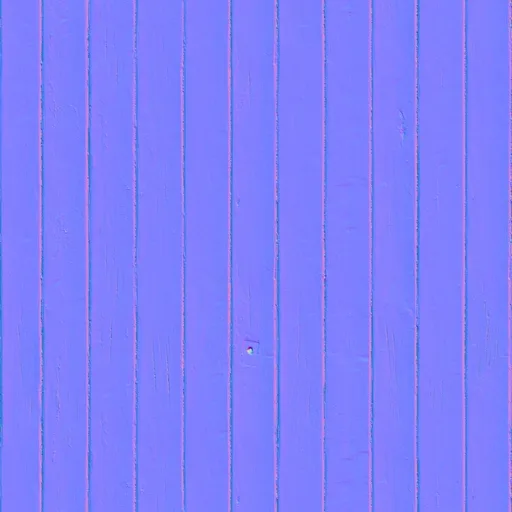
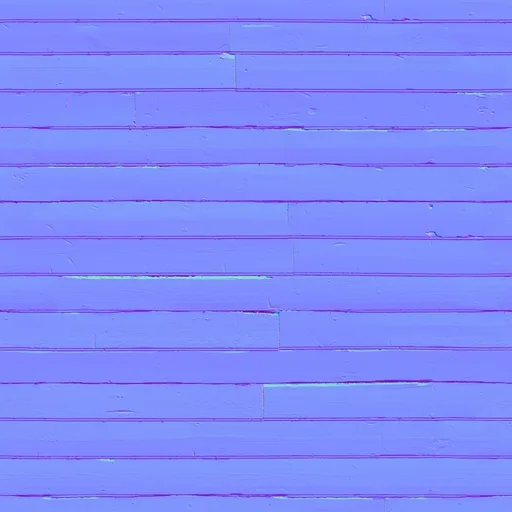
Voss house walls: CC0 Poly Haven Weathered Plank Siding (clear level boards about 17 cm) in place of the blotchy peeling timber; SOURCES updated

Changed region(s): [[0.0, 0.0, 1.0, 1.0]]

diff --git a/src3/look/surfaces.js b/src3/look/surfaces.js
@@ -26,7 +26,7 @@ export const TEXTURES = [
   // things carry their own colour (peeling paint, rust), so full chroma: the
   // pieces use colours near each texture's mean.
   { name: 'stonewall', strength: 1.0, chroma: 0.8, normal: true },
-  { name: 'peeling', strength: 0.85, chroma: 0.55, normal: true },
+  { name: 'peeling', strength: 1.0, chroma: 0.4, normal: true }, // weathered lap siding (round 6)
   { name: 'greyplanks', strength: 1.0, chroma: 0.6, normal: true },
   { name: 'charred', strength: 1.0, chroma: 1.0, normal: true },
   { name: 'rustheavy', strength: 1.0, chroma: 1.0, normal: true },
@@ -56,7 +56,7 @@ export const LAYERS = [
   { name: 'rusty paint', tex: T.rust, scale: [3, 3], normal: 0 },
   { name: 'logs', tex: T.bark, scale: [1.6, 1.2], swap: true, normal: 1 },
   { name: 'stone wall', tex: T.stonewall, scale: [2.6, 2.6], normal: 1 },
-  { name: 'peeling boards', tex: T.peeling, scale: [3, 3], swap: true, normal: 1 },
+  { name: 'peeling boards', tex: T.peeling, scale: [2.4, 2.4], normal: 1 }, // boards about 17 cm, already level
   { name: 'grey boards', tex: T.greyplanks, scale: [2.2, 2.2], swap: true, normal: 1 },
   { name: 'charred', tex: T.charred, scale: [1.6, 1.6], normal: 1 },
   { name: 'heavy rust', tex: T.rustheavy, scale: [1.4, 1.4], normal: 0.6 },

diff --git a/public/look/SOURCES.md b/public/look/SOURCES.md
@@ -72,7 +72,7 @@ flat along each face like the rest. Fetched by `tools/look/fetch.mjs <cache> ph`
 | Name | Used on | Source | License |
 |---|---|---|---|
 | stonewall | mill walls, chimney and rubble, scorched tops, the halt's platform | Poly Haven, Old Stone Wall: https://polyhaven.com/a/old_stone_wall | CC0 |
-| peeling | Voss farmhouse weatherboard, peeling white paint | Poly Haven, Weathered Peeling Timber: https://polyhaven.com/a/weathered_peeling_timber | CC0 |
+| peeling | Voss farmhouse weatherboard (round 6: clear horizontal lap boards, tinted by the old white paint colour; replaced Weathered Peeling Timber, which read as blotchy grey up close) | Poly Haven, Weathered Plank Siding: https://polyhaven.com/a/weathered_plank_siding | CC0 |
 | greyplanks | boarded windows, Voss shed and door, halt shelter, sign posts, sleepers, mill wheel paddles and spokes, elevator door | Poly Haven, Wood Planks Grey: https://polyhaven.com/a/wood_planks_grey | CC0 |
 | charred | the mill's fallen beams and burned paddles | Poly Haven, Wood Peeling Paint Weathered: https://polyhaven.com/a/wood_peeling_paint_weathered | CC0 |
 | rustheavy | hand pump, rails, wheel rims and axle, truck fenders, frame and bumper, broken windpump, elevator spout | Poly Haven, Rust Coarse 01: https://polyhaven.com/a/rust_coarse_01 | CC0 |
